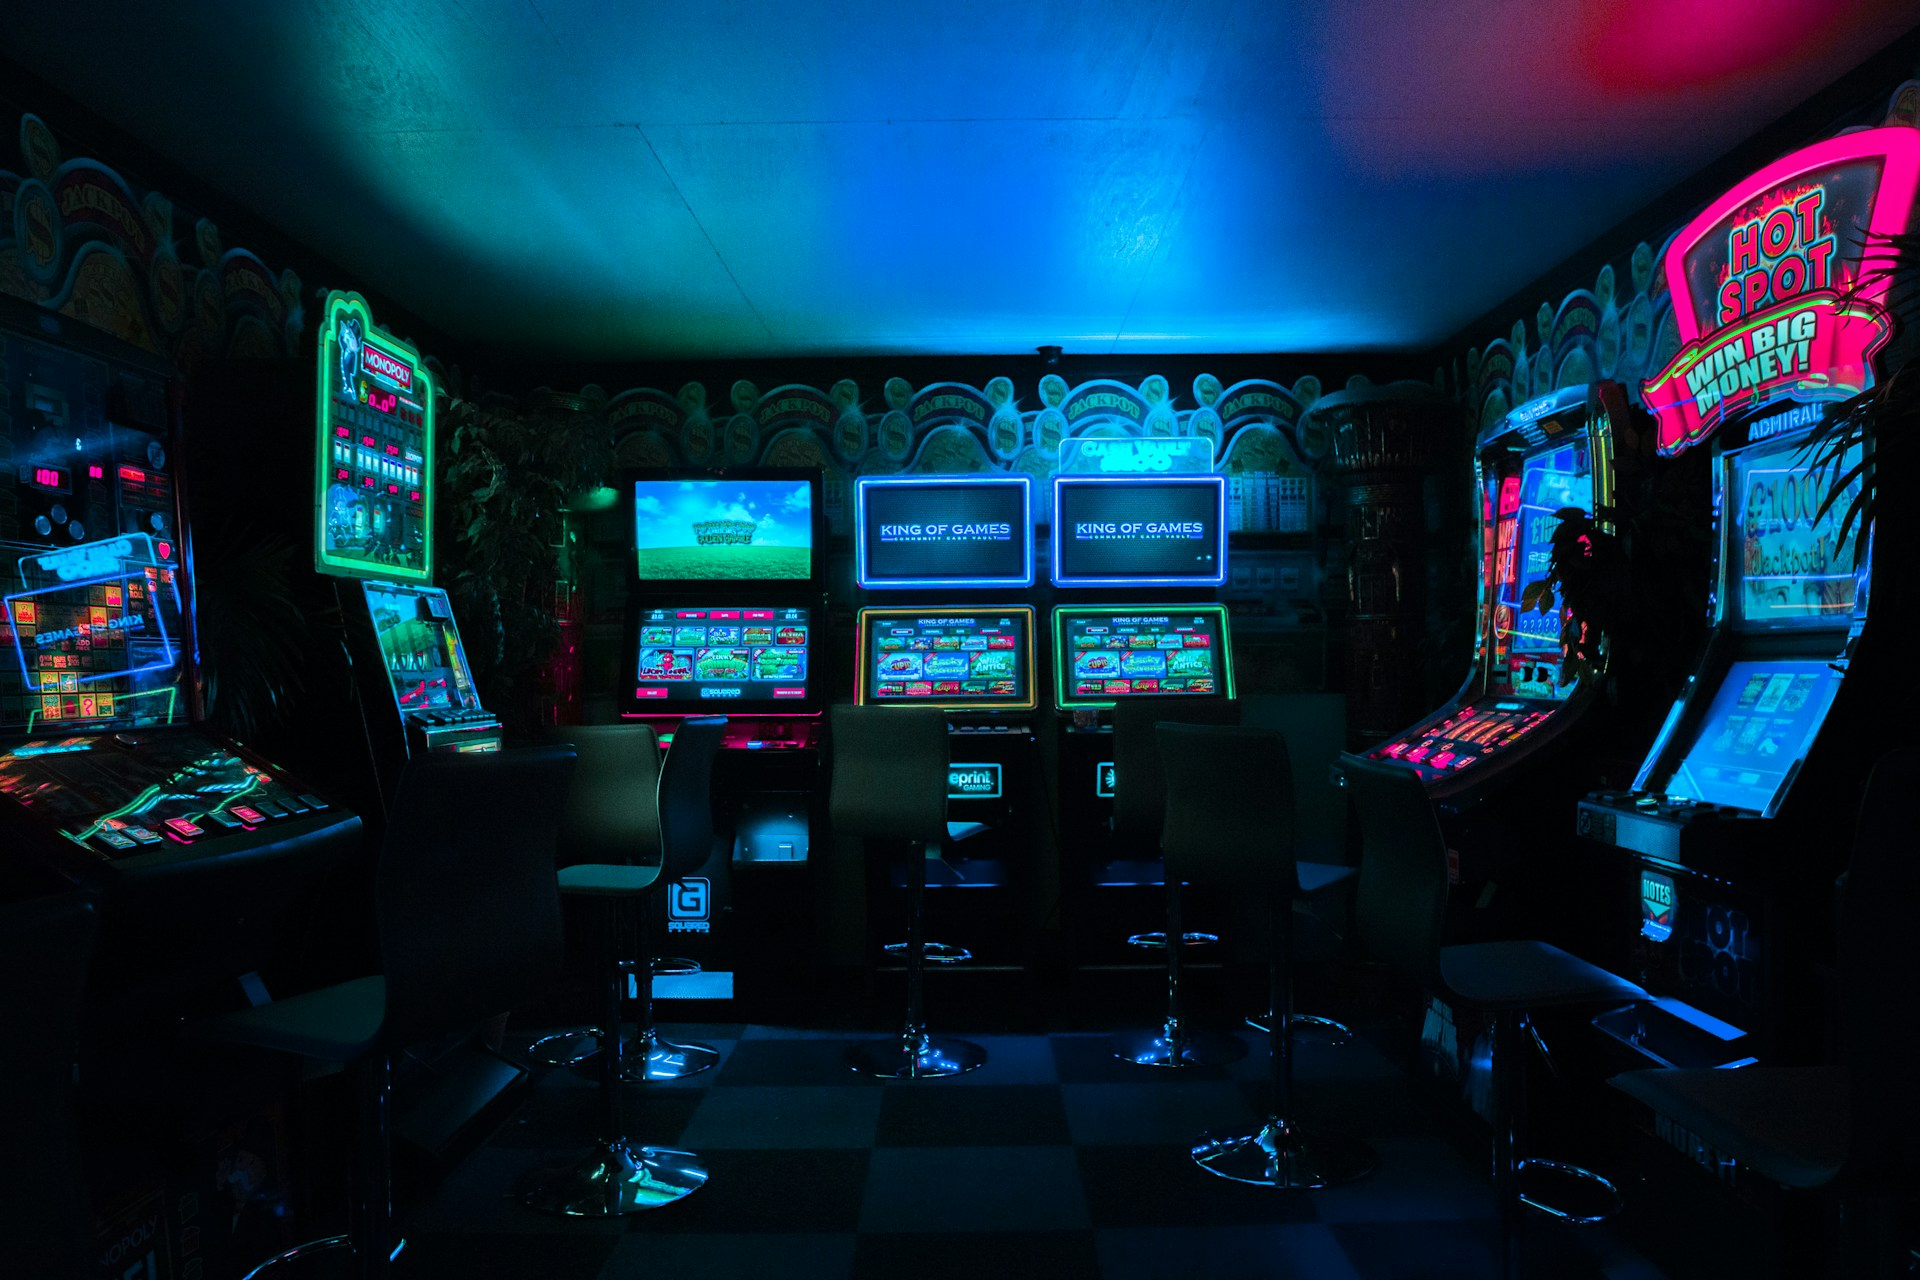
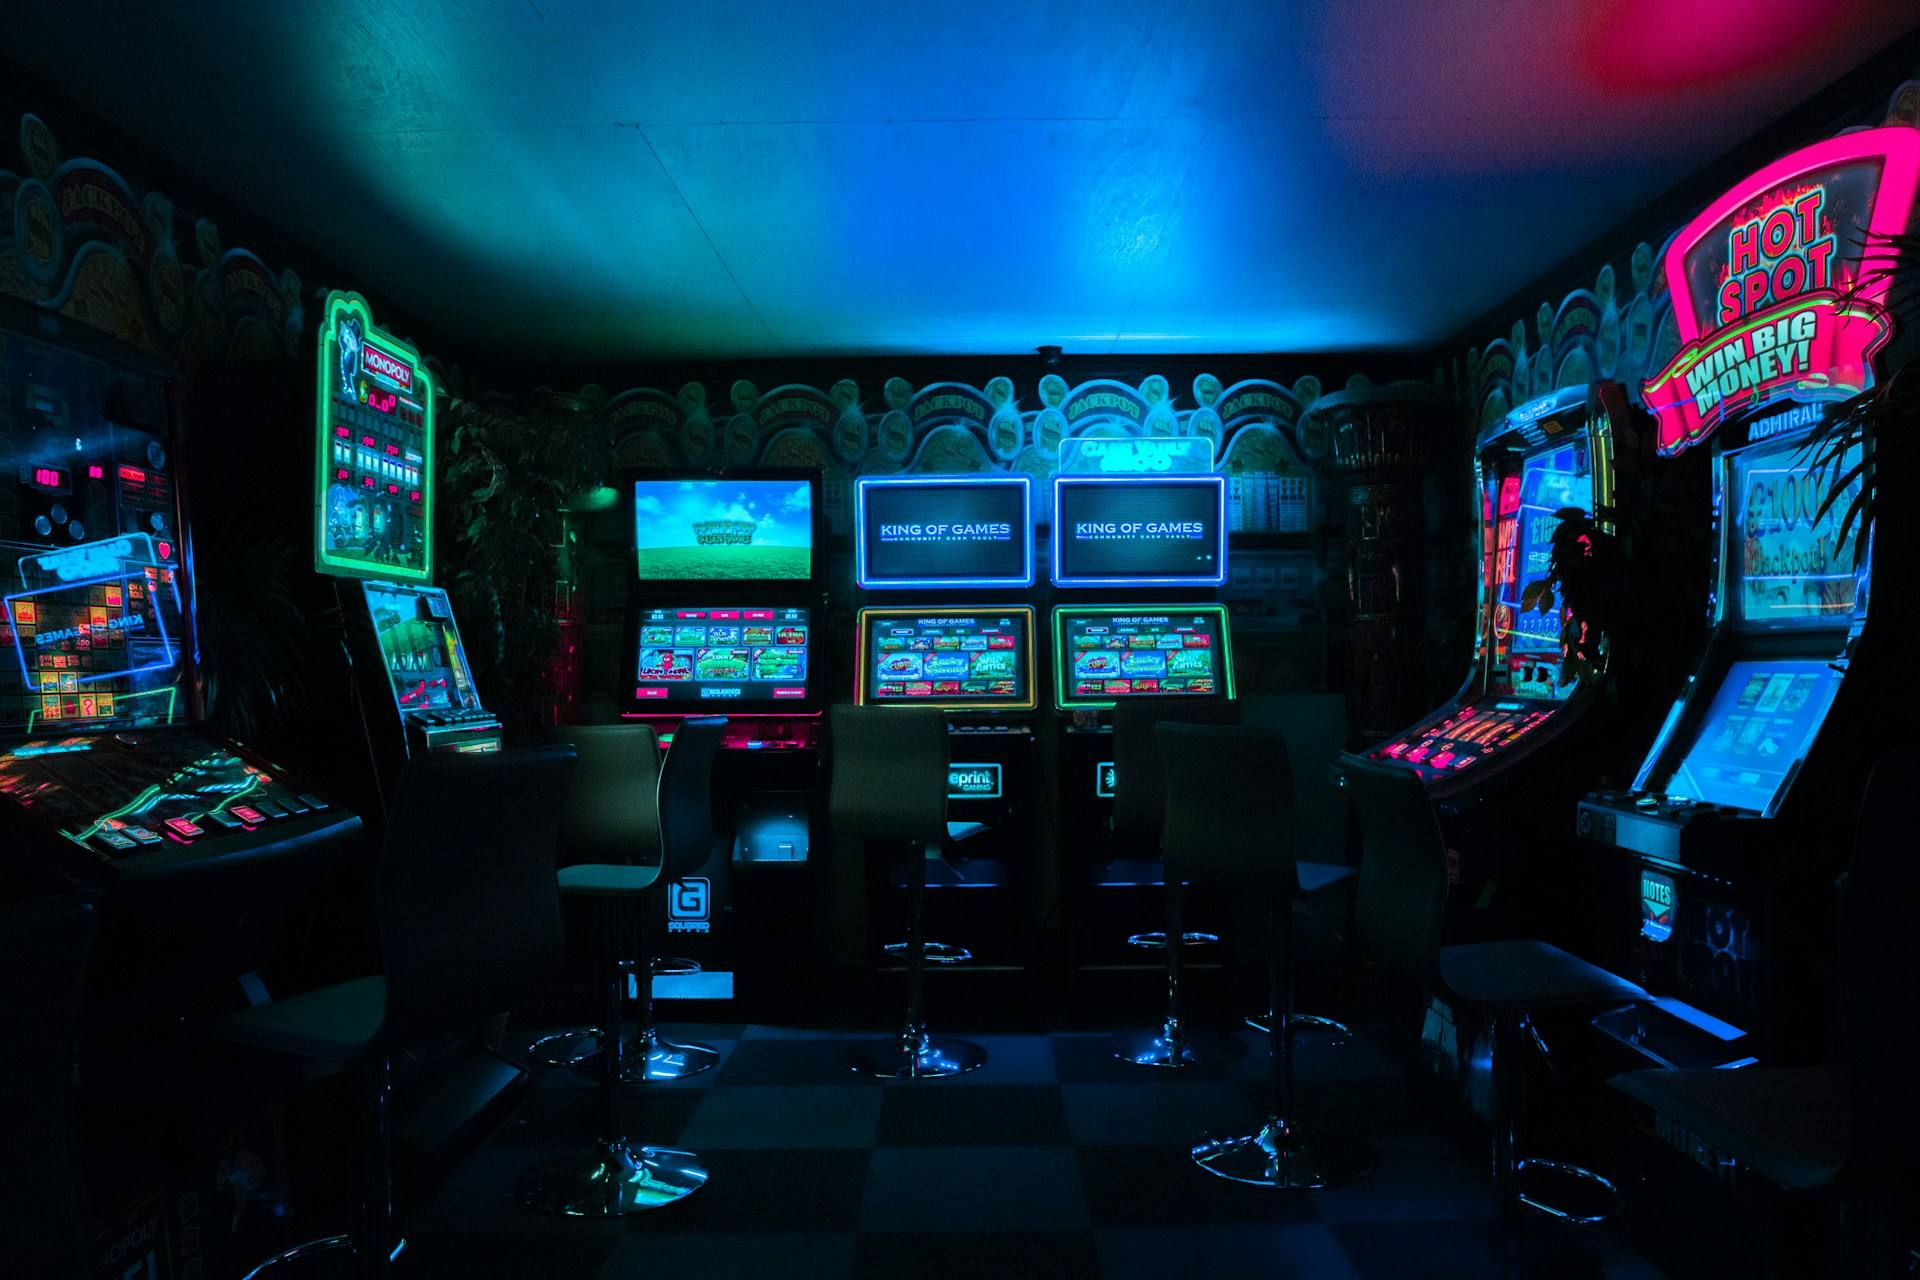
feat: major portfolio update - all improvements
- SEO meta tags + OG/Twitter cards for social sharing
- Favicon (logo.png) in browser tab
- Preloader animation on page load
- Back to top floating button
- WhatsApp floating contact button
- Stats counter animation (4+, 12+, 5, 8.97 count up)
- Testimonials section with 3 reviews
- Background images compressed (saved 324KB)
- Testimonials added to navbar

diff --git a/index.html b/index.html
@@ -3,7 +3,32 @@
 <head>
     <meta charset="UTF-8">
     <meta name="viewport" content="width=device-width, initial-scale=1.0">
-    <title>Pradeep Puri Goswami — Game Developer & Writer</title>
+    <title>Pradeep Puri Goswami — Unity Game Developer & Writer | Jaipur</title>
+
+    <!-- SEO -->
+    <meta name="description" content="Pradeep Puri Goswami — Unity 3D/2D Game Developer with 4+ years experience. Shipped 12+ games on Android, iOS, Web & AR/VR. Also a writer & song creator from Jaipur, India.">
+    <meta name="keywords" content="Unity Developer, Game Developer, Unity 3D, C#, Multiplayer, Photon, Socket.IO, Android, iOS, AR VR, Jaipur, India, Pradeep Puri Goswami">
+    <meta name="author" content="Pradeep Puri Goswami">
+    <meta name="robots" content="index, follow">
+
+    <!-- Open Graph (WhatsApp, LinkedIn, Facebook preview) -->
+    <meta property="og:type" content="website">
+    <meta property="og:url" content="https://purisahib.github.io/purijii/">
+    <meta property="og:title" content="Pradeep Puri Goswami — Game Developer & Writer">
+    <meta property="og:description" content="Unity 3D/2D Game Developer · 4+ years · 12+ games shipped · Writer · Song Creator · Jaipur, India">
+    <meta property="og:image" content="https://purisahib.github.io/purijii/images/logo.png">
+
+    <!-- Twitter Card -->
+    <meta name="twitter:card" content="summary_large_image">
+    <meta name="twitter:site" content="@pradeeppurigos1">
+    <meta name="twitter:title" content="Pradeep Puri Goswami — Game Developer & Writer">
+    <meta name="twitter:description" content="Unity 3D/2D Game Developer · 4+ years · 12+ games shipped · Writer · Song Creator">
+    <meta name="twitter:image" content="https://purisahib.github.io/purijii/images/logo.png">
+
+    <!-- Favicon -->
+    <link rel="icon" type="image/png" href="images/logo.png">
+    <link rel="apple-touch-icon" href="images/logo.png">
+
     <link href="https://fonts.googleapis.com/css2?family=Orbitron:wght@400;600;700;900&family=Inter:wght@300;400;500;600;700&display=swap" rel="stylesheet">
     <style>
         :root {
@@ -212,6 +237,60 @@
         /* FOOTER */
         footer { background: var(--bg2); border-top: 1px solid var(--border); padding: 2rem; text-align: center; color: var(--muted); font-size: 0.85rem; }
 
+        /* PRELOADER */
+        #preloader {
+            position: fixed; inset: 0; z-index: 9999;
+            background: var(--bg);
+            display: flex; flex-direction: column; align-items: center; justify-content: center;
+            transition: opacity 0.5s ease, visibility 0.5s ease;
+        }
+        #preloader.hidden { opacity: 0; visibility: hidden; }
+        .preloader-logo { width: 80px; height: 80px; border-radius: 50%; object-fit: contain; margin-bottom: 1.5rem; animation: pulse 1.2s ease-in-out infinite; }
+        .preloader-bar { width: 200px; height: 3px; background: rgba(255,45,158,0.15); border-radius: 3px; overflow: hidden; }
+        .preloader-fill { height: 100%; background: linear-gradient(90deg, #ff2d9e, #3d5cff); border-radius: 3px; animation: load 1.8s ease forwards; }
+        @keyframes load { from { width: 0; } to { width: 100%; } }
+        @keyframes pulse { 0%,100% { box-shadow: 0 0 0 0 rgba(255,45,158,0.4); } 50% { box-shadow: 0 0 0 16px rgba(255,45,158,0); } }
+
+        /* BACK TO TOP */
+        #back-top {
+            position: fixed; bottom: 2rem; right: 2rem; z-index: 500;
+            width: 46px; height: 46px; border-radius: 50%;
+            background: linear-gradient(135deg, #ff2d9e, #3d5cff);
+            border: none; cursor: pointer; display: flex; align-items: center; justify-content: center;
+            opacity: 0; visibility: hidden; transition: all 0.3s;
+            box-shadow: 0 4px 20px rgba(255,45,158,0.4);
+        }
+        #back-top.show { opacity: 1; visibility: visible; }
+        #back-top:hover { transform: translateY(-3px); box-shadow: 0 8px 25px rgba(255,45,158,0.5); }
+
+        /* WHATSAPP BUTTON */
+        #whatsapp-btn {
+            position: fixed; bottom: 5.5rem; right: 2rem; z-index: 500;
+            width: 46px; height: 46px; border-radius: 50%;
+            background: #25d366; display: flex; align-items: center; justify-content: center;
+            text-decoration: none; box-shadow: 0 4px 20px rgba(37,211,102,0.4);
+            transition: all 0.3s;
+        }
+        #whatsapp-btn:hover { transform: translateY(-3px); box-shadow: 0 8px 25px rgba(37,211,102,0.6); }
+
+        /* COUNTER */
+        .stat-number { font-family: 'Orbitron', sans-serif; font-size: 2.2rem; font-weight: 900; color: var(--cyan); line-height: 1; margin-bottom: 0.5rem; }
+
+        /* TESTIMONIALS */
+        #testimonials { background: var(--bg2); }
+        .testi-grid { display: grid; grid-template-columns: repeat(auto-fit, minmax(300px, 1fr)); gap: 1.5rem; }
+        .testi-card {
+            background: var(--card); border: 1px solid var(--border); border-radius: 16px;
+            padding: 1.8rem; position: relative; transition: transform 0.3s, box-shadow 0.3s;
+        }
+        .testi-card:hover { transform: translateY(-4px); box-shadow: 0 8px 30px var(--glow); }
+        .testi-quote { font-size: 3rem; color: var(--cyan); line-height: 1; margin-bottom: 0.5rem; opacity: 0.4; }
+        .testi-text { font-size: 0.92rem; color: var(--muted); line-height: 1.8; margin-bottom: 1.2rem; font-style: italic; }
+        .testi-author { display: flex; align-items: center; gap: 0.8rem; }
+        .testi-avatar { width: 40px; height: 40px; border-radius: 50%; background: linear-gradient(135deg, #ff2d9e, #3d5cff); display: flex; align-items: center; justify-content: center; font-size: 1.1rem; }
+        .testi-name { font-size: 0.88rem; color: var(--text); font-weight: 600; }
+        .testi-role { font-size: 0.76rem; color: var(--muted); }
+
         /* ANIMATIONS — content always visible; animation plays when JS adds .animated class */
         @keyframes fadeUp {
             from { opacity: 0; transform: translateY(24px); }
@@ -234,6 +313,22 @@
 </head>
 <body>
 
+<!-- PRELOADER -->
+<div id="preloader">
+    <img src="images/logo.png" alt="Loading" class="preloader-logo" onerror="this.style.display='none'">
+    <div class="preloader-bar"><div class="preloader-fill"></div></div>
+</div>
+
+<!-- WHATSAPP FLOATING -->
+<a id="whatsapp-btn" href="https://wa.me/918619578946?text=Hi%20Pradeep!%20I%20saw%20your%20portfolio." target="_blank" title="Chat on WhatsApp">
+    <svg width="24" height="24" viewBox="0 0 24 24" fill="white"><path d="M17.472 14.382c-.297-.149-1.758-.867-2.03-.967-.273-.099-.471-.148-.67.15-.197.297-.767.966-.94 1.164-.173.199-.347.223-.644.075-.297-.15-1.255-.463-2.39-1.475-.883-.788-1.48-1.761-1.653-2.059-.173-.297-.018-.458.13-.606.134-.133.298-.347.446-.52.149-.174.198-.298.298-.497.099-.198.05-.371-.025-.52-.075-.149-.669-1.612-.916-2.207-.242-.579-.487-.5-.669-.51-.173-.008-.371-.01-.57-.01-.198 0-.52.074-.792.372-.272.297-1.04 1.016-1.04 2.479 0 1.462 1.065 2.875 1.213 3.074.149.198 2.096 3.2 5.077 4.487.709.306 1.262.489 1.694.625.712.227 1.36.195 1.871.118.571-.085 1.758-.719 2.006-1.413.248-.694.248-1.289.173-1.413-.074-.124-.272-.198-.57-.347m-5.421 7.403h-.004a9.87 9.87 0 01-5.031-1.378l-.361-.214-3.741.982.998-3.648-.235-.374a9.86 9.86 0 01-1.51-5.26c.001-5.45 4.436-9.884 9.888-9.884 2.64 0 5.122 1.03 6.988 2.898a9.825 9.825 0 012.893 6.994c-.003 5.45-4.437 9.884-9.885 9.884m8.413-18.297A11.815 11.815 0 0012.05 0C5.495 0 .16 5.335.157 11.892c0 2.096.547 4.142 1.588 5.945L.057 24l6.305-1.654a11.882 11.882 0 005.683 1.448h.005c6.554 0 11.89-5.335 11.893-11.893a11.821 11.821 0 00-3.48-8.413z"/></svg>
+</a>
+
+<!-- BACK TO TOP -->
+<button id="back-top" onclick="window.scrollTo({top:0,behavior:'smooth'})" title="Back to top">
+    <svg width="20" height="20" viewBox="0 0 24 24" fill="white"><path d="M7 14l5-5 5 5z"/></svg>
+</button>
+
 <!-- NAV -->
 <nav>
     <a href="#hero" class="nav-logo">
@@ -245,6 +340,7 @@
         <li><a href="#skills" onclick="closeNav()">Skills</a></li>
         <li><a href="#projects" onclick="closeNav()">Projects</a></li>
         <li><a href="#writing" onclick="closeNav()">Writing</a></li>
+        <li><a href="#testimonials" onclick="closeNav()">Reviews</a></li>
         <li><a href="#contact" onclick="closeNav()">Contact</a></li>
     </ul>
     <button class="nav-toggle" id="nav-toggle" onclick="toggleNav()">☰</button>
@@ -289,19 +385,19 @@
             </div>
             <div class="about-stats fade-in">
                 <div class="stat-card">
-                    <div class="stat-number">4+</div>
+                    <div class="stat-number" data-target="4" data-suffix="+">0</div>
                     <div class="stat-label">Years Experience</div>
                 </div>
                 <div class="stat-card">
-                    <div class="stat-number">12+</div>
+                    <div class="stat-number" data-target="12" data-suffix="+">0</div>
                     <div class="stat-label">Games Shipped</div>
                 </div>
                 <div class="stat-card">
-                    <div class="stat-number">5</div>
+                    <div class="stat-number" data-target="5" data-suffix="">0</div>
                     <div class="stat-label">Platforms Deployed</div>
                 </div>
                 <div class="stat-card">
-                    <div class="stat-number">8.97</div>
+                    <div class="stat-number" data-target="8.97" data-suffix="">0</div>
                     <div class="stat-label">MCA SGPA / 10</div>
                 </div>
             </div>
@@ -726,6 +822,52 @@
     </div>
 </section>
 
+<!-- TESTIMONIALS -->
+<section id="testimonials">
+    <div class="container">
+        <div class="section-header">
+            <div class="section-tag">What People Say</div>
+            <h2 class="section-title">Testimonials</h2>
+            <div class="section-line"></div>
+        </div>
+        <div class="testi-grid">
+            <div class="testi-card fade-in">
+                <div class="testi-quote">"</div>
+                <p class="testi-text">Pradeep is one of the most dedicated Unity developers I've worked with. His ability to ship real-time multiplayer games on tight deadlines while maintaining quality is exceptional.</p>
+                <div class="testi-author">
+                    <div class="testi-avatar">👨💼</div>
+                    <div>
+                        <div class="testi-name">Team Lead — KPIS Pvt. Ltd.</div>
+                        <div class="testi-role">Game Development Manager, Jaipur</div>
+                    </div>
+                </div>
+            </div>
+            <div class="testi-card fade-in">
+                <div class="testi-quote">"</div>
+                <p class="testi-text">The multiplayer architecture Pradeep built for our Ludo platform handles thousands of concurrent users flawlessly. His Socket.IO integration is rock solid.</p>
+                <div class="testi-author">
+                    <div class="testi-avatar">🚀</div>
+                    <div>
+                        <div class="testi-name">Product Owner — Try Players</div>
+                        <div class="testi-role">Real-Money Gaming Platform</div>
+                    </div>
+                </div>
+            </div>
+            <div class="testi-card fade-in">
+                <div class="testi-quote">"</div>
+                <p class="testi-text">Not just a developer — Pradeep thinks like a game designer. He brings storytelling instincts to his code, which makes the games he builds genuinely engaging.</p>
+                <div class="testi-author">
+                    <div class="testi-avatar">🎮</div>
+                    <div>
+                        <div class="testi-name">Senior Developer — KPIS</div>
+                        <div class="testi-role">Cross-Platform Games Team</div>
+                    </div>
+                </div>
+            </div>
+        </div>
+    </div>
+</section>
+
 <!-- EDUCATION -->
 <section id="education">
     <div class="container">
@@ -856,6 +998,50 @@
 </footer>
 
 <script>
+// PRELOADER
+window.addEventListener('load', () => {
+    setTimeout(() => {
+        document.getElementById('preloader').classList.add('hidden');
+    }, 1800);
+});
+
+// BACK TO TOP
+window.addEventListener('scroll', () => {
+    const btn = document.getElementById('back-top');
+    if (window.scrollY > 400) btn.classList.add('show');
+    else btn.classList.remove('show');
+});
+
+// COUNTER ANIMATION
+function animateCounter(el) {
+    const target = parseFloat(el.dataset.target);
+    const suffix = el.dataset.suffix || '';
+    const isDecimal = target % 1 !== 0;
+    const duration = 1800;
+    const steps = 60;
+    const increment = target / steps;
+    let current = 0;
+    const timer = setInterval(() => {
+        current += increment;
+        if (current >= target) {
+            current = target;
+            clearInterval(timer);
+        }
+        el.textContent = isDecimal ? current.toFixed(2) + suffix : Math.floor(current) + suffix;
+    }, duration / steps);
+}
+
+const counterObs = new IntersectionObserver(entries => {
+    entries.forEach(e => {
+        if (e.isIntersecting && !e.target.classList.contains('counted')) {
+            e.target.classList.add('counted');
+            animateCounter(e.target);
+            counterObs.unobserve(e.target);
+        }
+    });
+}, { threshold: 0.5 });
+document.querySelectorAll('.stat-number[data-target]').forEach(el => counterObs.observe(el));
+
 // NAV MOBILE
 function toggleNav() {
     document.getElementById('nav-links').classList.toggle('open');
